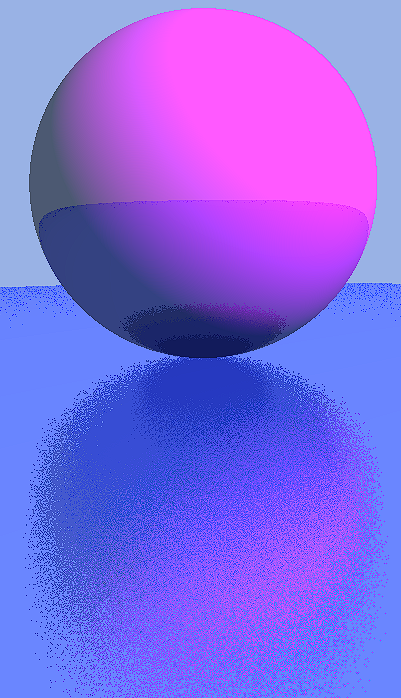
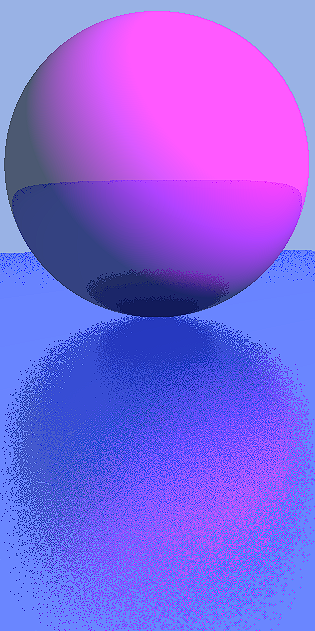
finished accumulation implementation, added documentation files

diff --git a/Raytracer/src/Renderer.cpp b/Raytracer/src/Renderer.cpp
@@ -33,24 +33,41 @@ void Renderer::OnResize(uint32_t width, uint32_t height)
 	delete[] m_ImageData;
 	m_ImageData = new uint32_t[width * height];
 
+	delete[] m_AccumulationData;
+	m_AccumulationData = new glm::vec4[width * height];
+
 }
 
 void Renderer::Render(const Scene& scene, const Camera& camera)
 {
 	m_ActiveScene = &scene;
 	m_ActiveCamera = &camera;
+	
+	//clear buffer if we are at the start of the frameindex
+	if (m_FrameIndex == 1)
+		memset(m_AccumulationData, 0, m_FinalImage->GetWidth() * m_FinalImage->GetHeight() * sizeof(glm::vec4));
 
 	for (uint32_t y = 0; y < m_FinalImage->GetHeight(); y++)
 	{
 		for (uint32_t x = 0; x < m_FinalImage->GetWidth(); x++)
 		{
 			glm::vec4 color = PerPixel(x, y);
-			color = glm::clamp(color, glm::vec4(0.0f), glm::vec4(1.0f));
-			m_ImageData[x + y * m_FinalImage->GetWidth()] = Utils::ConvertToRGBA(color);
+			m_AccumulationData[x + y * m_FinalImage->GetWidth()] += color;
+
+			glm::vec4 accumulatedColor = m_AccumulationData[x + y * m_FinalImage->GetWidth()];
+			accumulatedColor /= (float)m_FrameIndex;
+
+			accumulatedColor = glm::clamp(accumulatedColor, glm::vec4(0.0f), glm::vec4(1.0f));
+			m_ImageData[x + y * m_FinalImage->GetWidth()] = Utils::ConvertToRGBA(accumulatedColor);
 		}
 	}
 
 	m_FinalImage->SetData(m_ImageData);
+
+	if (m_Settings.Accumulate)
+		m_FrameIndex++;
+	else
+		m_FrameIndex = 1;
 }
 
 glm::vec4 Renderer::PerPixel(uint32_t x, uint32_t y) 

diff --git a/Raytracer/src/Renderer.h b/Raytracer/src/Renderer.h
@@ -10,12 +10,21 @@
 class Renderer
 {
 public:
+	struct Settings
+	{
+		bool Accumulate = true;
+	};
+
 	Renderer() = default;
 
 	void OnResize(uint32_t width, uint32_t height);
 	void Render(const Scene& scene, const Camera& camera);
 
 	std::shared_ptr<Walnut::Image> GetFinalImage() const { return m_FinalImage; }
+
+	void ResetFrameIndex() { m_FrameIndex = 1; }
+	Settings& GetSettings() { return m_Settings; }
+
 private:
 	struct HitPayload {
 		float HitDistance;
@@ -32,11 +41,14 @@ private:
 	HitPayload Miss(const Ray& ray); //payload for missed ray
 private:
 	std::shared_ptr<Walnut::Image> m_FinalImage;
+	Settings m_Settings;
 
 	const Scene* m_ActiveScene = nullptr;
 	const Camera* m_ActiveCamera = nullptr;
 
 	uint32_t* m_ImageData = nullptr;
+	glm::vec4* m_AccumulationData = nullptr;
 
+	uint32_t m_FrameIndex = 1;
 
 };

diff --git a/Raytracer/src/WalnutApp.cpp b/Raytracer/src/WalnutApp.cpp
@@ -43,7 +43,9 @@ public:
 	}
 	virtual void OnUpdate(float ts) override
 	{
-		m_Camera.OnUpdate(ts);
+		//if camera is moving, reset frame index to prevent "afterimages" from accumulation
+		if (m_Camera.OnUpdate(ts))
+			m_Renderer.ResetFrameIndex();
 	}
 
 	virtual void OnUIRender() override
@@ -51,10 +53,15 @@ public:
 		ImGui::Begin("Settings");
 		ImGui::Text("Last render: %.3fms", m_LastRenderTime);
 		ImGui::Text("FPS: %.1f", 1 / (m_LastRenderTime / 1000));
-		if (ImGui::Button("render")) 
-		{
+
+		if (ImGui::Button("Render")) 
 			Render();
-		}
+
+		ImGui::Checkbox("Accumulate", &m_Renderer.GetSettings().Accumulate);
+
+		if (ImGui::Button("Reset"))
+			m_Renderer.ResetFrameIndex();
+
 		ImGui::End();
 
 		ImGui::Begin("Scene");

diff --git a/Raytracer/src/Camera.cpp b/Raytracer/src/Camera.cpp
@@ -15,7 +15,7 @@ Camera::Camera(float verticalFOV, float nearClip, float farClip)
 	m_Position = glm::vec3(0, 0, 6);
 }
 
-void Camera::OnUpdate(float ts)
+bool Camera::OnUpdate(float ts)
 {
 	glm::vec2 mousePos = Input::GetMousePosition();
 	glm::vec2 delta = (mousePos - m_LastMousePosition) * 0.002f;
@@ -24,7 +24,7 @@ void Camera::OnUpdate(float ts)
 	if (!Input::IsMouseButtonDown(MouseButton::Right))
 	{
 		Input::SetCursorMode(CursorMode::Normal);
-		return;
+		return false;
 	}
 
 	Input::SetCursorMode(CursorMode::Locked);
@@ -86,6 +86,8 @@ void Camera::OnUpdate(float ts)
 		RecalculateView();
 		RecalculateRayDirections();
 	}
+
+	return moved;
 }
 
 void Camera::OnResize(uint32_t width, uint32_t height)

diff --git a/Raytracer/src/Camera.h b/Raytracer/src/Camera.h
@@ -8,7 +8,7 @@ class Camera
 public:
 	Camera(float verticalFOV, float nearClip, float farClip);
 
-	void OnUpdate(float ts);
+	bool OnUpdate(float ts);
 	void OnResize(uint32_t width, uint32_t height);
 
 	const glm::mat4& GetProjection() const { return m_Projection; }
